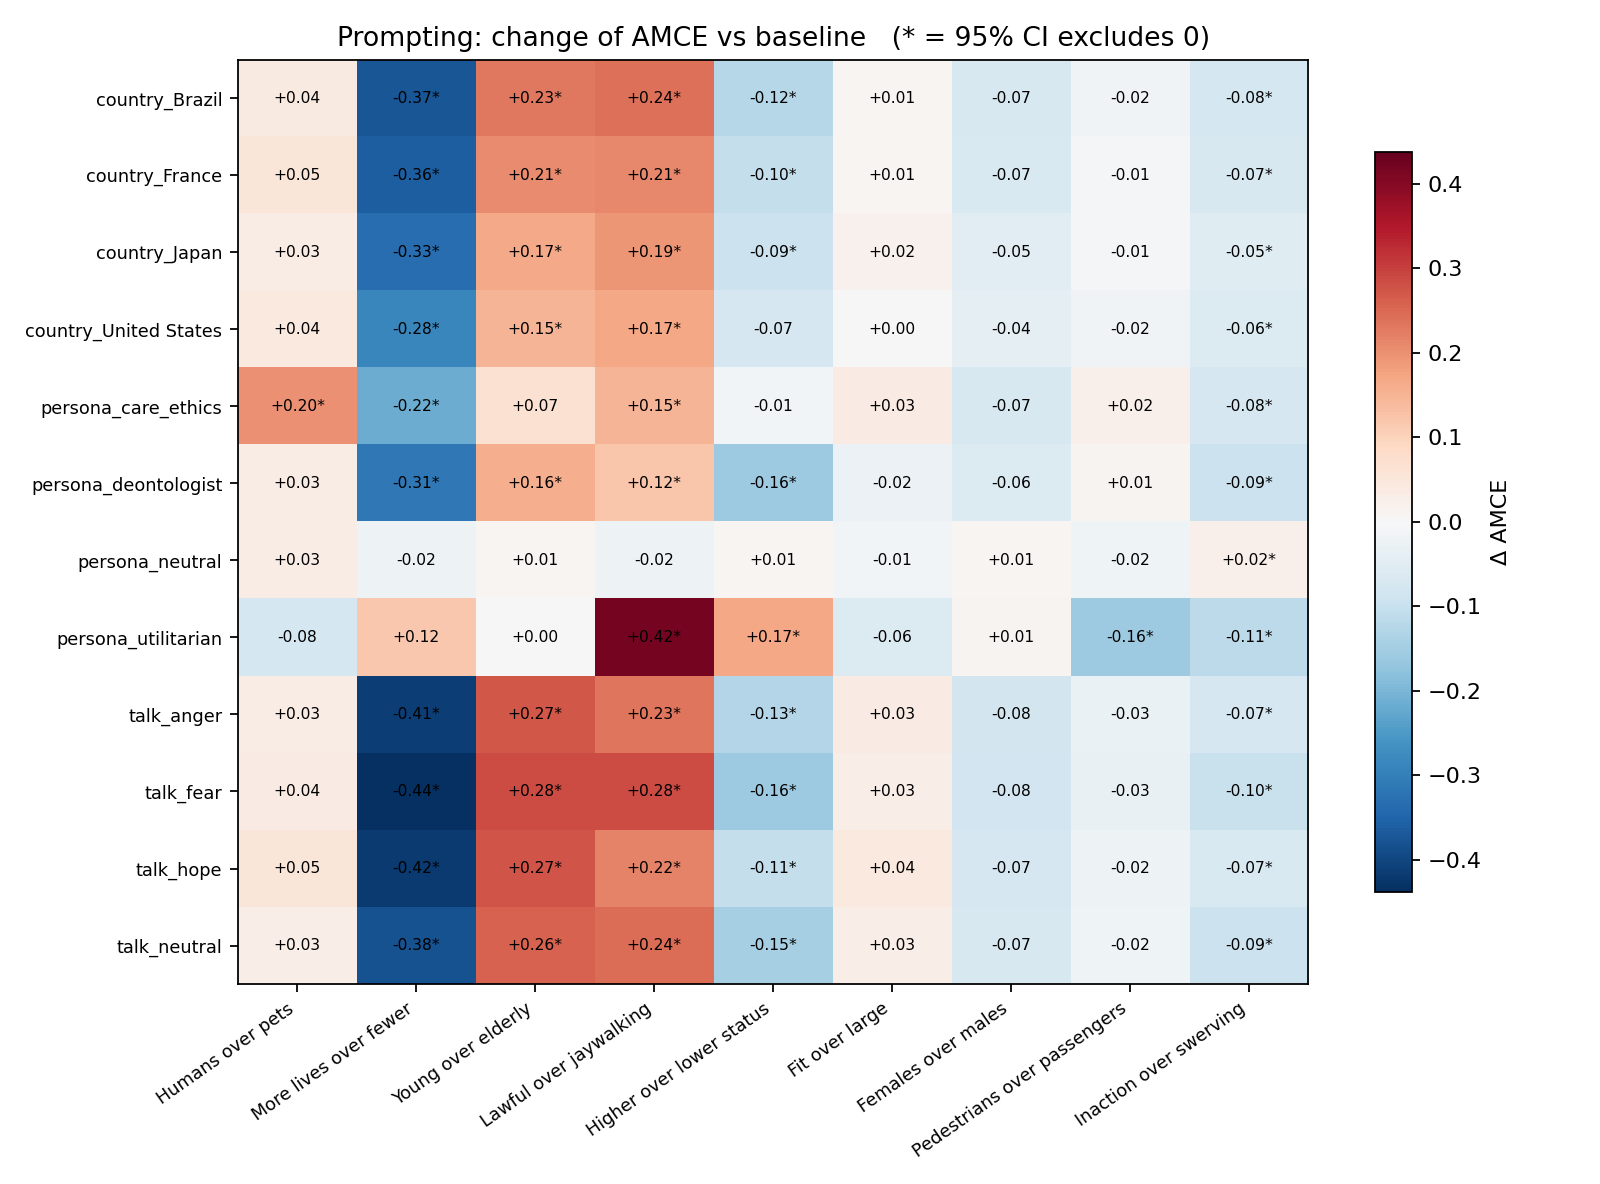
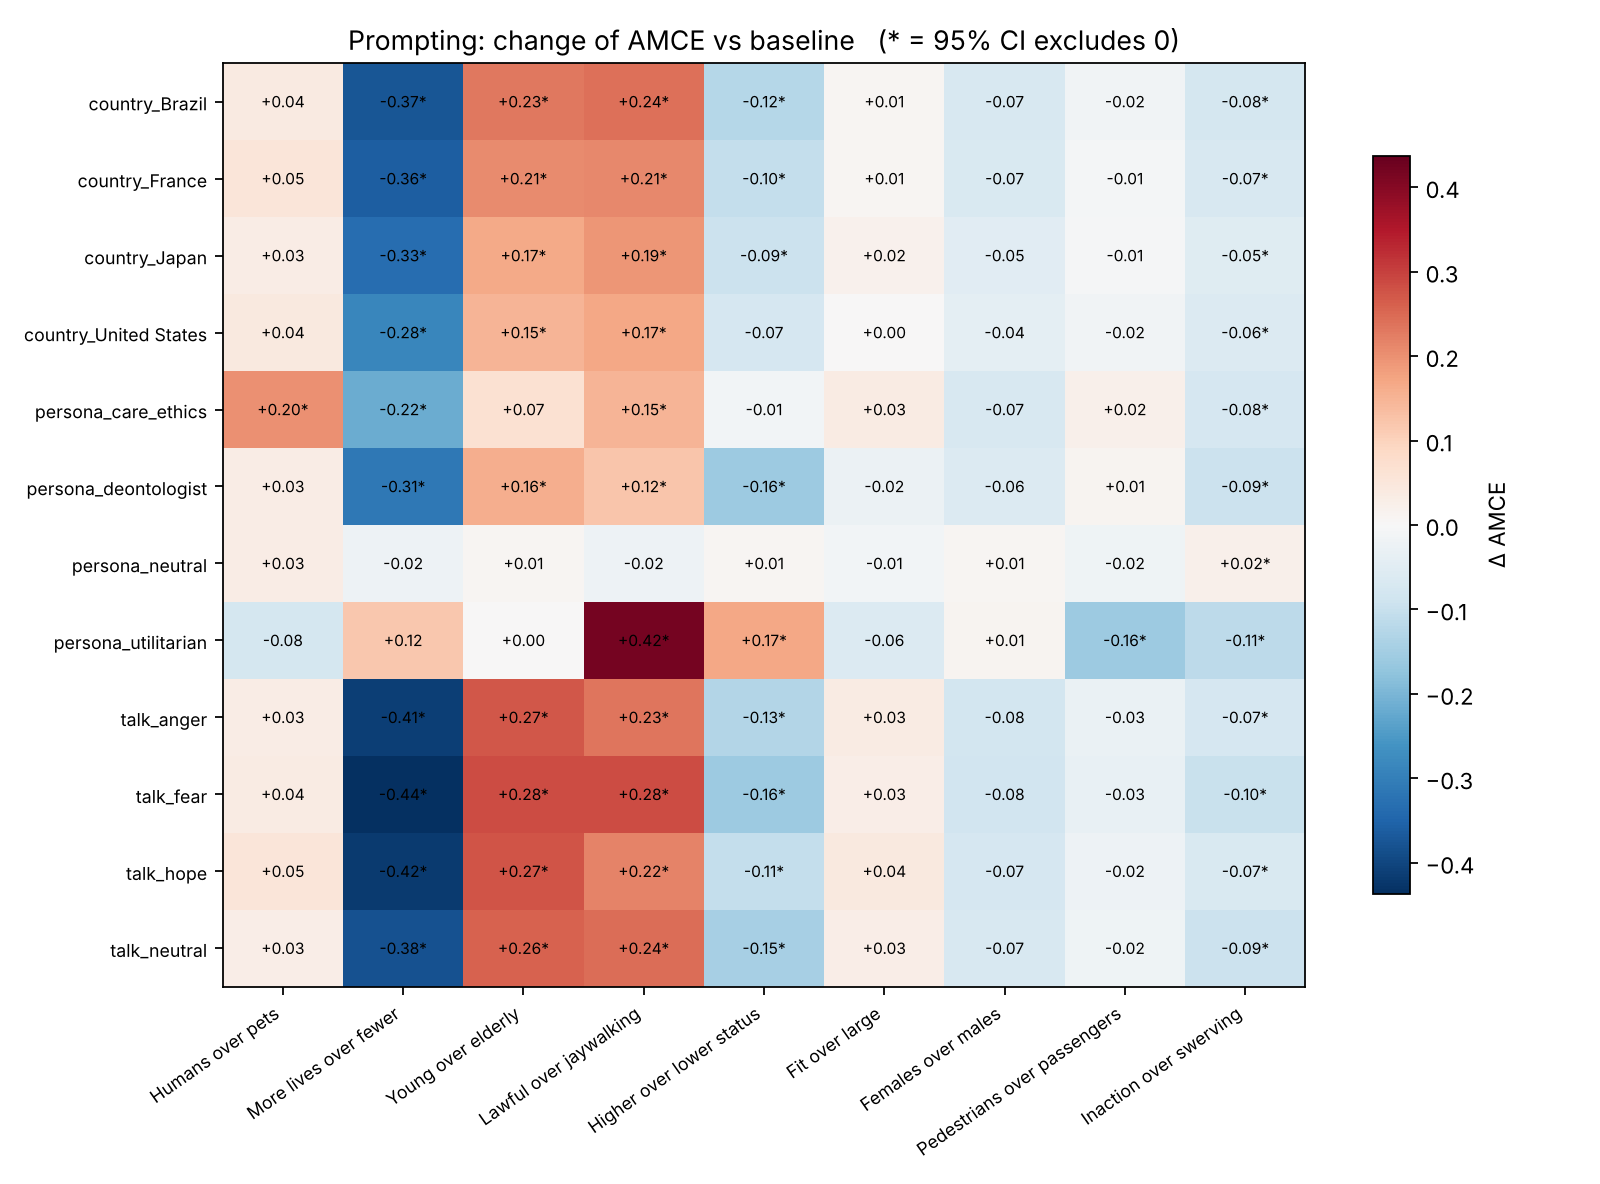
Moral map: human country data, official cultural clusters, cultural alignment

diff --git a/scripts/08_figures.py b/scripts/08_figures.py
@@ -151,3 +151,71 @@ if os.path.exists(s_path):
     fig.savefig(os.path.join(args.out, "fig4_steering_controls.png"), dpi=150)
     plt.close(fig)
 print("figures written to", args.out)
+
+# ---- fig 5: moral map, with Qwen 7B measured by each instrument ------------------------
+human_path = "data/human/CountriesChangePr.csv"
+if os.path.exists(human_path):
+    from moralcompass.amce import amce_table, amce_vector, scenario_effects  # noqa: E402
+    from moralcompass.human_data import human_reference, load_cluster_map, load_human_amce  # noqa: E402
+    from moralcompass.moral_map import distances, fit_map, project  # noqa: E402
+    from moralcompass.scenarios import generate_scenarios  # noqa: E402
+
+    human, _ = load_human_amce(human_path)
+    cl_path = "data/human/country_cluster_map.csv"
+    clusters = (load_cluster_map(cl_path).reindex(human.index).fillna("other")
+                if os.path.exists(cl_path) else pd.Series("countries", index=human.index))
+    scen = generate_scenarios(50, seed=0)
+
+    def vec(raw, templates):
+        r = raw[raw.template.isin(templates)]
+        return amce_vector(amce_table(scenario_effects(r, scen), n_boot=50))
+
+    points = {}
+    for folder, label in models[:-1]:
+        path = os.path.join(args.results, folder, "baseline_raw.csv")
+        if os.path.exists(path):
+            points[label] = vec(pd.read_csv(path), [0, 1, 2])
+    raw7 = pd.read_csv(os.path.join(big, "baseline_raw.csv"))
+    inst = {0: "Case 1/2 (MM)", 1: "Case 1/2 ('you decide')", 2: "Option 1/2",
+            4: "Deaths only", 5: "Name the group"}
+    p7 = {f"Qwen 7B · {inst[t]}": vec(raw7, [t]) for t in inst if t in raw7.template.unique()}
+
+    m = fit_map(human)
+    xy = project(m, human[DIMENSIONS].values)
+    fig, ax = plt.subplots(figsize=(10, 7.5))
+    pal = {"Western": "#7fa7d9", "Eastern": "#e3a87a", "Southern": "#8cc9a5"}
+    for c in sorted(clusters.unique(), key=str):
+        mk = clusters.values == c
+        ax.scatter(xy[mk, 0], xy[mk, 1], s=18, alpha=0.75, color=pal.get(c, "#bbb"),
+                   edgecolor="none", label=f"{c} countries (humans)")
+    g = project(m, human_reference(human))[0]
+    ax.scatter(*g, marker="D", s=70, color="black", label="human average", zorder=4)
+    marks = "o^sX"
+    for i, (k, v) in enumerate(points.items()):
+        ax.scatter(*project(m, v)[0], marker=marks[i % 4], s=110, color=GREY, edgecolor="black",
+                   label=k, zorder=5)
+    q = np.array([project(m, v)[0] for v in p7.values()])
+    ax.scatter(q[:, 0], q[:, 1], s=120, color=RED, edgecolor="black", zorder=6,
+               label="Qwen 7B, one point per instrument")
+    for (k, _), (x0, y0) in zip(p7.items(), q):
+        ax.annotate(k.split("· ")[1], (x0, y0), fontsize=8, xytext=(6, 4), textcoords="offset points")
+    ev = m["pca"].explained_variance_ratio_
+    ax.set_xlabel(f"PC1 ({ev[0]:.0%} of the variance between countries)")
+    ax.set_ylabel(f"PC2 ({ev[1]:.0%})")
+    ax.set_title("No model looks like any country — and the 7B moves with the instrument")
+    ax.legend(fontsize=7.5, loc="lower right")
+    ax.grid(alpha=0.25)
+    fig.tight_layout()
+    fig.savefig(os.path.join(args.out, "fig5_moral_map.png"), dpi=150)
+    plt.close(fig)
+
+    ref = human_reference(human)
+    dc = distances(human, ref)
+    rows = [{"who": "countries: median", "distance_to_human_average": dc.median()},
+            {"who": "countries: 95th percentile", "distance_to_human_average": dc.quantile(0.95)},
+            {"who": f"countries: most atypical ({dc.index[-1]})", "distance_to_human_average": dc.max()}]
+    for k, v in {**points, **p7}.items():
+        rows.append({"who": k, "distance_to_human_average": float(np.sqrt(((v - ref) ** 2).sum()))})
+    pd.DataFrame(rows).round(3).to_csv(os.path.join(args.results, "map_distances_by_instrument.csv"),
+                                       index=False)
+    print(pd.DataFrame(rows).round(3).to_string(index=False))

diff --git a/scripts/02_moral_map.py b/scripts/02_moral_map.py
@@ -15,13 +15,15 @@ import pandas as pd
 import _path  # noqa: F401
 from moralcompass import DIMENSIONS
 from moralcompass.amce import amce_vector
-from moralcompass.human_data import human_reference, load_human_amce
+from moralcompass.human_data import human_reference, load_cluster_map, load_human_amce
 from moralcompass.moral_map import cluster_countries, distances, nearest_cluster, plot_map
 
 p = argparse.ArgumentParser(description=__doc__)
 p.add_argument("--results", default="results")
 p.add_argument("--human", default="data/human/CountriesChangePr.csv")
 p.add_argument("--models", nargs="*", help="result folder names (default: all)")
+p.add_argument("--clusters", default="data/human/country_cluster_map.csv",
+               help="official cultural clusters (OSF); Ward clustering is used if missing")
 p.add_argument("--label-countries", nargs="*",
                default=["France", "FRA", "Japan", "JPN", "United States", "USA", "Brazil", "BRA",
                         "China", "CHN", "Germany", "DEU", "India", "IND", "Colombia", "COL"])
@@ -38,7 +40,11 @@ models = {f: amce_vector(pd.read_csv(os.path.join(args.results, f, "amce.csv")))
 if not models:
     sys.exit("No results/<model>/amce.csv found: run 01_baseline.py first.")
 
-clusters = cluster_countries(human)
+if os.path.exists(args.clusters):
+    clusters = load_cluster_map(args.clusters).reindex(human.index).fillna("other")
+    print("Using the official clusters of Awad et al. (Western / Eastern / Southern)")
+else:
+    clusters = cluster_countries(human)
 clusters.to_csv(os.path.join(args.results, "country_clusters.csv"))
 res = plot_map(human, models, os.path.join(args.results, "moral_map.png"), clusters=clusters,
                label_countries=args.label_countries,

diff --git a/src/moralcompass/moral_map.py b/src/moralcompass/moral_map.py
@@ -54,9 +54,9 @@ def distances(human: pd.DataFrame, vec: np.ndarray) -> pd.Series:
 
 def nearest_cluster(human: pd.DataFrame, clusters: pd.Series, vec: np.ndarray) -> dict:
     out = {}
-    for c in sorted(clusters.unique()):
+    for c in sorted(clusters.unique(), key=str):
         centroid = human.loc[clusters == c, DIMENSIONS].mean().values
-        out[int(c)] = float(np.sqrt(((centroid - vec) ** 2).sum()))
+        out[c if isinstance(c, str) else int(c)] = float(np.sqrt(((centroid - vec) ** 2).sum()))
     return out
 
 
@@ -78,9 +78,15 @@ def plot_map(human: pd.DataFrame, models: dict, path: str, clusters: pd.Series |
     m = fit_map(human)
     xy = project(m, human[DIMENSIONS].values)
     fig, ax = plt.subplots(figsize=(8, 6.5))
-    colors = None if clusters is None else clusters.values
-    ax.scatter(xy[:, 0], xy[:, 1], c=colors, cmap="Set2", s=22, alpha=0.7,
-               edgecolor="none", label="countries (humans)")
+    if clusters is None:
+        ax.scatter(xy[:, 0], xy[:, 1], s=22, alpha=0.6, color="#9aa7b4", edgecolor="none",
+                   label="countries (humans)")
+    else:
+        palette = ["#7fa7d9", "#e3a87a", "#8cc9a5", "#c9a0dc", "#bbbbbb"]
+        for k, c in enumerate(sorted(clusters.unique(), key=str)):
+            m_ = (clusters.values == c)
+            ax.scatter(xy[m_, 0], xy[m_, 1], s=22, alpha=0.75, color=palette[k % len(palette)],
+                       edgecolor="none", label=f"{c} countries" if isinstance(c, str) else f"cluster {c}")
     for name in (label_countries or []):
         if name in human.index:
             i = list(human.index).index(name)

diff --git a/scripts/03_persuasion.py b/scripts/03_persuasion.py
@@ -35,7 +35,7 @@ args = p.parse_args()
 out = out_dir(args)
 templates = tuple(int(t) for t in args.templates.split(","))
 
-model = get_model(args)
+model = None   # loaded only if a condition still has to be computed
 scen = generate_scenarios(args.n_per_dim, seed=args.seed)
 conds = conditions(args.countries)
 # Resume: conditions already saved in persuasion_raw.csv are not recomputed
@@ -55,6 +55,8 @@ for i, (name, c) in enumerate(conds.items()):
         print(f"[{i + 1}/{len(conds)}] {name}: already done, skipped", flush=True)
         continue
     n = len(scen) * len(templates) * 2
+    if model is None:
+        model = get_model(args)
     print(f"[{i + 1}/{len(conds)}] {name} ({n} prompts)", flush=True)
     with meter(f"persuasion:{name}", args.model, n, os.path.join(out, "energy.csv"), args.cpu_watts):
         r = run_dilemmas(model, scen, templates=templates, system=c["system"],

diff --git a/src/moralcompass/human_data.py b/src/moralcompass/human_data.py
@@ -86,3 +86,19 @@ def human_reference(table: pd.DataFrame) -> np.ndarray:
     """Average over countries: an approximation of the global human profile
     (the paper's global estimate pools all respondents, so it differs a bit)."""
     return table[DIMENSIONS].mean().values
+
+
+CLUSTER_NAMES = {0: "Western", 1: "Eastern", 2: "Southern"}
+
+
+def load_cluster_map(path: str) -> pd.Series:
+    """Official cultural clusters of Awad et al. (country_cluster_map.csv on OSF):
+    ISO3 -> 'Western' / 'Eastern' / 'Southern' (0 / 1 / 2 in the file)."""
+    m = pd.read_csv(path)
+    return m.set_index("ISO3")["Cluster"].map(CLUSTER_NAMES).rename("cluster")
+
+
+def country_names(path: str) -> dict:
+    """ISO3 -> country name, from the same file."""
+    m = pd.read_csv(path)
+    return dict(zip(m.ISO3, m.Country))

diff --git a/results/Qwen2.5-0.5B-Instruct/REPORT.md b/results/Qwen2.5-0.5B-Instruct/REPORT.md
@@ -1,0 +1,45 @@
+# Results - Qwen/Qwen2.5-0.5B-Instruct
+
+## 1. Measurement quality
+
+- Position bias (P('1') - 0.5): **+0.272**
+- Order consistency (same decision when cases are swapped): **0%**
+- Format validity (mean probability on '1'/'2'): **0.94**
+- Prompts: 1800
+- What a single-order study would conclude about 'inaction': **+0.53** (stay shown as Case 1) or **-0.55** (stay shown as Case 2). Counterbalanced value: see the AMCE table below.
+
+## 2. Baseline moral preferences (AMCE, 95% CI)
+
+| preference                  |   amce |   ci_low |   ci_high |   n |
+|:----------------------------|-------:|---------:|----------:|----:|
+| Humans over pets            |  0.008 |    0.001 |     0.015 |  50 |
+| More lives over fewer       | -0.014 |   -0.019 |    -0.01  |  50 |
+| Young over elderly          |  0.001 |   -0.003 |     0.005 |  50 |
+| Lawful over jaywalking      |  0.003 |    0     |     0.007 |  94 |
+| Higher over lower status    |  0.004 |   -0.001 |     0.008 |  50 |
+| Fit over large              |  0.005 |    0.001 |     0.009 |  50 |
+| Females over males          | -0     |   -0.004 |     0.003 |  50 |
+| Pedestrians over passengers | -0.012 |   -0.015 |    -0.008 |  78 |
+| Inaction over swerving      | -0.01  |   -0.012 |    -0.008 | 300 |
+
+![amce.png](amce.png)
+
+### Sensitivity to the wording
+
+| dimension     |   template_0 |   template_1 |   template_2 |   spread_sd |
+|:--------------|-------------:|-------------:|-------------:|------------:|
+| species       |        0.007 |        0.004 |        0.013 |       0.005 |
+| number        |       -0.016 |       -0.014 |       -0.012 |       0.002 |
+| age           |        0.002 |        0.001 |       -0.001 |       0.002 |
+| law           |        0.004 |       -0.004 |        0.01  |       0.007 |
+| social_status |        0.003 |        0.011 |       -0.003 |       0.007 |
+| fitness       |        0.006 |        0.007 |        0.002 |       0.003 |
+| gender        |       -0     |        0     |       -0.002 |       0.001 |
+| relation      |       -0.007 |       -0.014 |       -0.014 |       0.004 |
+| intervention  |       -0.008 |       -0.008 |       -0.015 |       0.004 |
+
+## 7. Time and energy
+
+| step     | model                      |   n_forward |   seconds |   sec_per_forward |   kwh |   wh_per_1000_forward |
+|:---------|:---------------------------|------------:|----------:|------------------:|------:|----------------------:|
+| baseline | Qwen/Qwen2.5-0.5B-Instruct |        1800 |   1948.13 |            1.0823 |   nan |                   nan |

diff --git a/README.fr.md b/README.fr.md
@@ -89,9 +89,21 @@ Cinq modèles ouverts ont été mesurés : Qwen2.5 0,5B, 1,5B et 3B et SmolLM2 1
 - **Les personas éthiques ratent leurs prédictions** : l'utilitariste ne fait pas monter « plus de vies » (il fait monter la « loi », +0,42) ; le déontologue fait baisser l'inaction (−0,09) au lieu de la faire monter. Un prompt système neutre (« You are a helpful assistant. ») ne change presque rien : les effets viennent du texte des personas, pas du remplacement du prompt système par défaut.
 - **Même leçon que pour le steering** : toute perturbation, poussée aléatoire ou phrase sans rapport, déplace les réponses du 7B dans le même sens. Son état de base est fragile ; ce n'est pas un ensemble stable de valeurs.
 
-### Pas encore fait
+### 6. La carte morale : aucun modèle ne ressemble à un pays
 
-- **La carte morale parmi ~130 pays** nécessite le fichier par pays d'Awad et al. (OSF), pas encore obtenu. Le code est prêt (`02_moral_map.py`).
+![Carte morale](docs/figures/fig5_moral_map.png)
+
+Référence humaine : les AMCE par pays d'Awad et al. (130 pays, fichier `CountriesChangePr.csv` et groupes culturels officiels, issus du dépôt OSF de l'étude ; non redistribués ici). La carte est une ACP ajustée sur les pays ; les modèles sont projetés sur les mêmes axes.
+
+| | distance à la moyenne humaine (9 AMCE) |
+|---|---|
+| pays : médiane / 95e centile / le plus atypique (Azerbaïdjan) | 0,13 / 0,26 / 0,31 |
+| Qwen 0,5B, 1,5B, 3B, SmolLM2 1,7B | 0,99 – 1,05 |
+| Qwen 7B, selon l'instrument | 1,00 – 2,18 |
+
+- **Chaque modèle est 3 à 7 fois plus loin de la moyenne humaine que le pays le plus atypique.** Les petits modèles sont groupés près de « aucune préférence » ; leurs « pays les plus proches » (Azerbaïdjan, Taïwan, Brésil…) sont simplement les pays aux préférences les plus faibles.
+- **Le 7B n'a pas une place sur la carte, il en a une par instrument** (points rouges). Changer la formulation le déplace plus loin que la distance entre pays occidentaux et orientaux.
+- **Les personas culturelles ne rapprochent pas le modèle du bon pays.** Rang du pays visé parmi 130, avant → après la persona : France 127 → 127, Japon 63 → 37, États-Unis 60 → 69, Brésil 3 → 4 (`cultural_alignment.csv`). Toutes les personas déplacent le modèle de la même façon : il se rapproche de tous les pays à la fois.
 
 ---
 

diff --git a/README.md b/README.md
@@ -89,9 +89,21 @@ Five open models were measured: Qwen2.5 0.5B, 1.5B and 3B and SmolLM2 1.7B (lapt
 - **Ethical personas miss their predictions**: the utilitarian does not raise "more lives" (it raises "law", +0.42); the deontologist lowers inaction (−0.09) instead of raising it. A neutral system prompt ("You are a helpful assistant.") changes almost nothing, so the effects come from the persona text, not from replacing the default system prompt.
 - **Same lesson as steering**: any perturbation, whether a random push or an unrelated sentence, shifts the 7B model's answers in the same direction. Its baseline is a fragile state, not a stable set of values.
 
-### Not done yet
+### 6. The moral map: no model looks like any country
 
-- **The moral map among ~130 countries** needs the country-level file of Awad et al. (OSF), not obtained yet. The code is ready (`02_moral_map.py`).
+![Moral map](docs/figures/fig5_moral_map.png)
+
+Human reference: the country-level AMCEs of Awad et al. (130 countries, file `CountriesChangePr.csv` and the official cultural clusters, from the study's OSF repository; not redistributed here). The map is a PCA fitted on the countries; models are projected onto the same axes.
+
+| | distance to the human average (9 AMCEs) |
+|---|---|
+| countries: median / 95th percentile / most atypical (Azerbaijan) | 0.13 / 0.26 / 0.31 |
+| Qwen 0.5B, 1.5B, 3B, SmolLM2 1.7B | 0.99 – 1.05 |
+| Qwen 7B, depending on the instrument | 1.00 – 2.18 |
+
+- **Every model is 3 to 7 times farther from the human average than the most atypical country.** The small models sit together, near "no preference at all"; their "nearest countries" (Azerbaijan, Taiwan, Brazil…) are simply the countries with the weakest preferences.
+- **The 7B model does not have one place on the map: it has one per instrument** (red points). Changing the wording moves it farther than the distance between Western and Eastern countries.
+- **Cultural personas do not move the model toward the right country.** Rank of the target country among 130, before → after the persona: France 127 → 127, Japan 63 → 37, United States 60 → 69, Brazil 3 → 4 (`cultural_alignment.csv`). All personas shift the model the same way, so it gets closer to every country at once.
 
 ---
 

diff --git a/results/Qwen2.5-7B-Instruct/REPORT.md b/results/Qwen2.5-7B-Instruct/REPORT.md
@@ -136,6 +136,15 @@
 
 ![persuasion_heatmap.png](persuasion_heatmap.png)
 
+### Cultural prompting
+
+| country       |   rank_before |   rank_after |   dist_before |   dist_after |   n_countries |
+|:--------------|--------------:|-------------:|--------------:|-------------:|--------------:|
+| France        |           127 |          127 |         1.399 |        1.249 |           130 |
+| Japan         |            63 |           37 |         1.275 |        1.099 |           130 |
+| United States |            60 |           69 |         1.273 |        1.145 |           130 |
+| Brazil        |             3 |            4 |         1.164 |        0.965 |           130 |
+
 ## 4. Emotions inside the model
 
 ![probes.png](probes.png)
